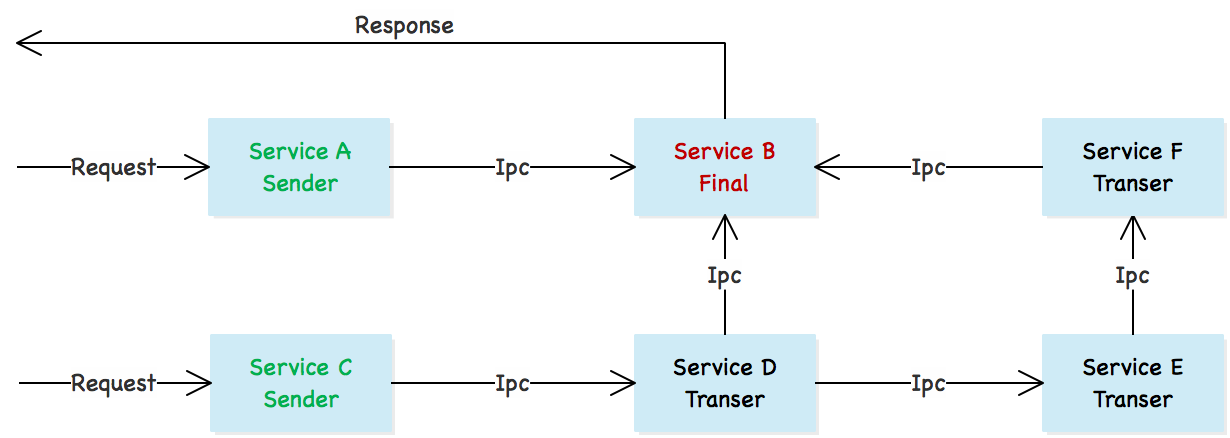
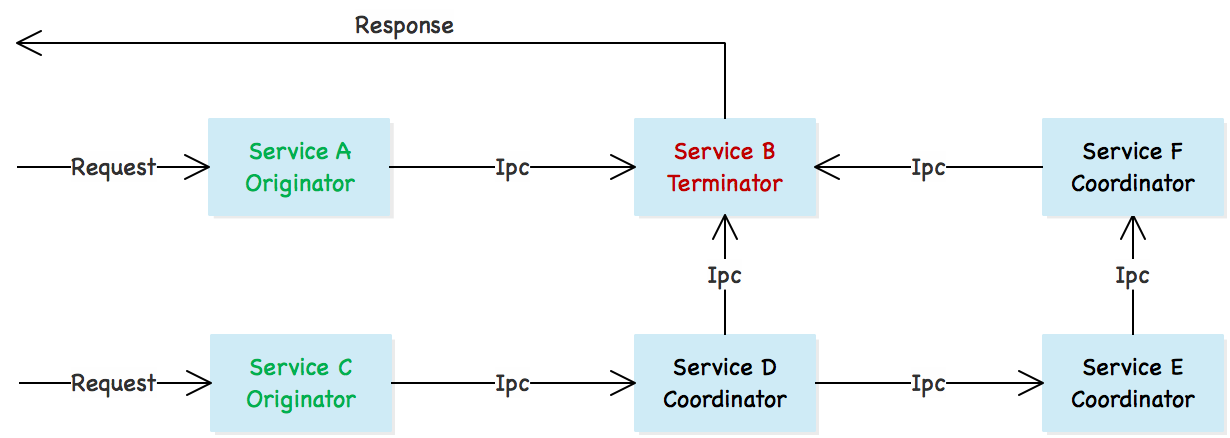
Updates doc/102-single-rpc.md
Auto commit by GitBook Editor

diff --git a/doc/102-single-rpc.md b/doc/102-single-rpc.md
@@ -7,7 +7,7 @@ In zero system, the developer could focus on code logical instead of Rpc interna
 
 Then you can write your code in zero service.
 
-## 1. Rpc Mode
+## 1. Rpc Workflow
 
 In zero system, it only support three rpc node:
 
@@ -41,9 +41,20 @@ Here are some different code.
 
 ### 1.4. Workflow
 
-![](/doc/image/rpc-workflow.png)As above describe, in one request, there should be following roles:
+As above describe, in one request, there should be following roles:
 
-* Sender + Final
-* 
+![](/doc/image/rpc-workflow.png)
+
+* **Originator** and **Terminator** must be only one in IPC workflow.
+* **Coordinator** could contains one or more.
+
+## 2. Limitation
+
+Because the** Originator** offten send request from Agent class, the signature of method is freedom. But for **Coordinator** & **Terminator**, the method signature must obey following rules:
+
+* This method must contains return value;
+* If there are some async workflow, you can return Future&lt;T&gt; as result;
+* The argument must be length = 1 and type = Envelop; \( Zero defined \)
+
 
 
